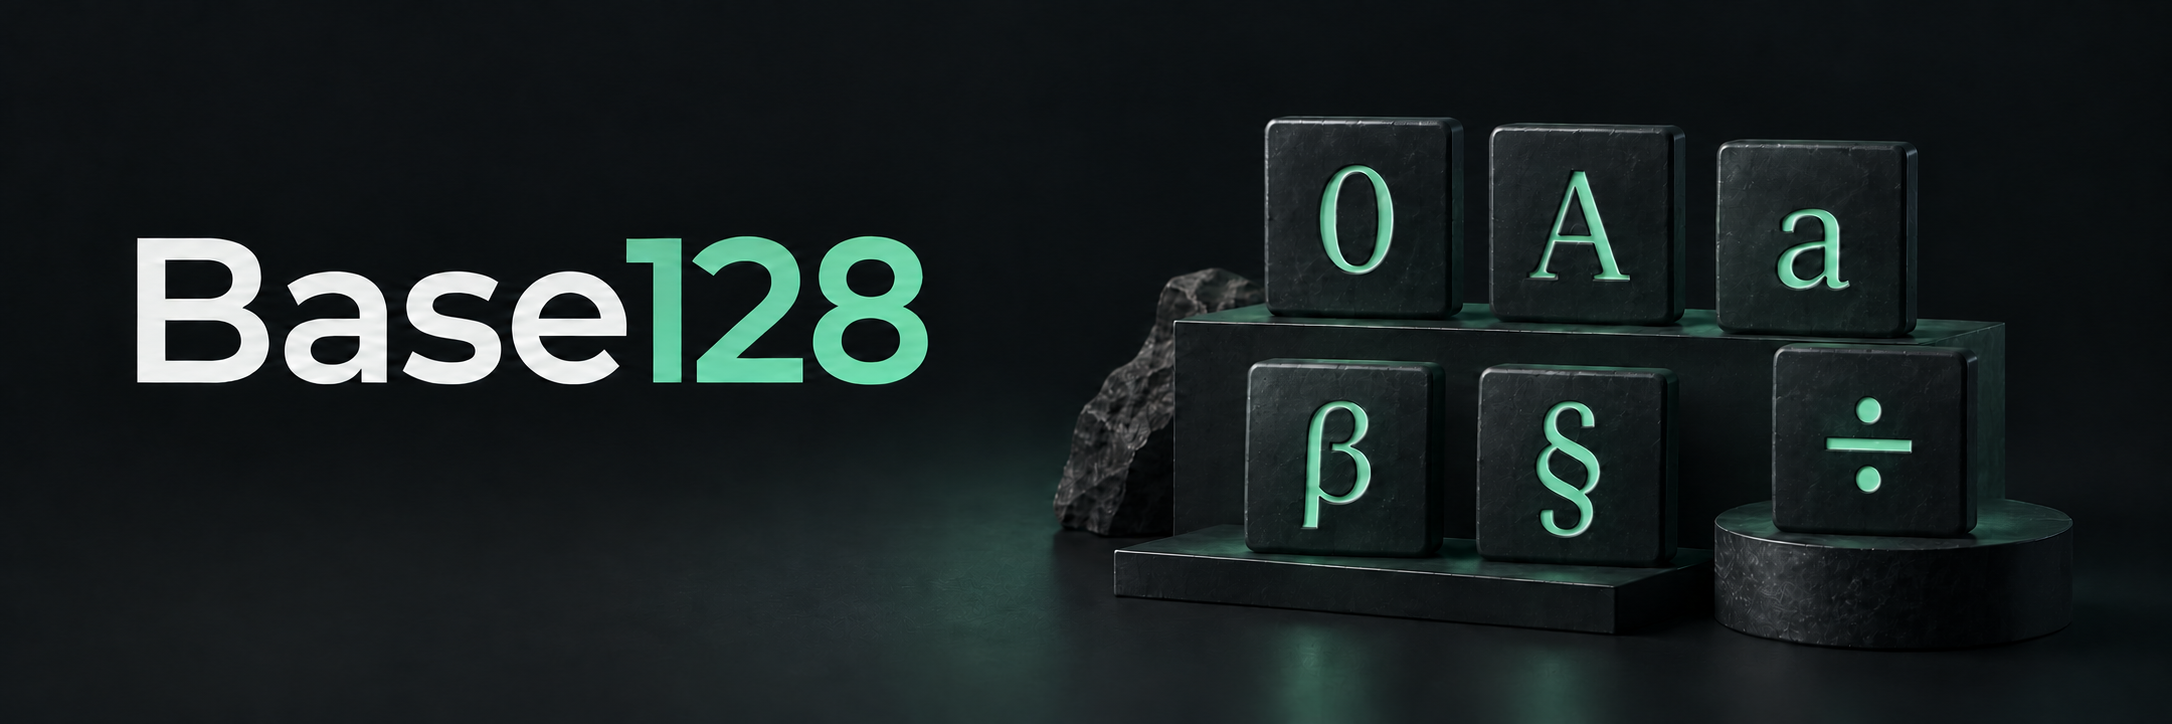
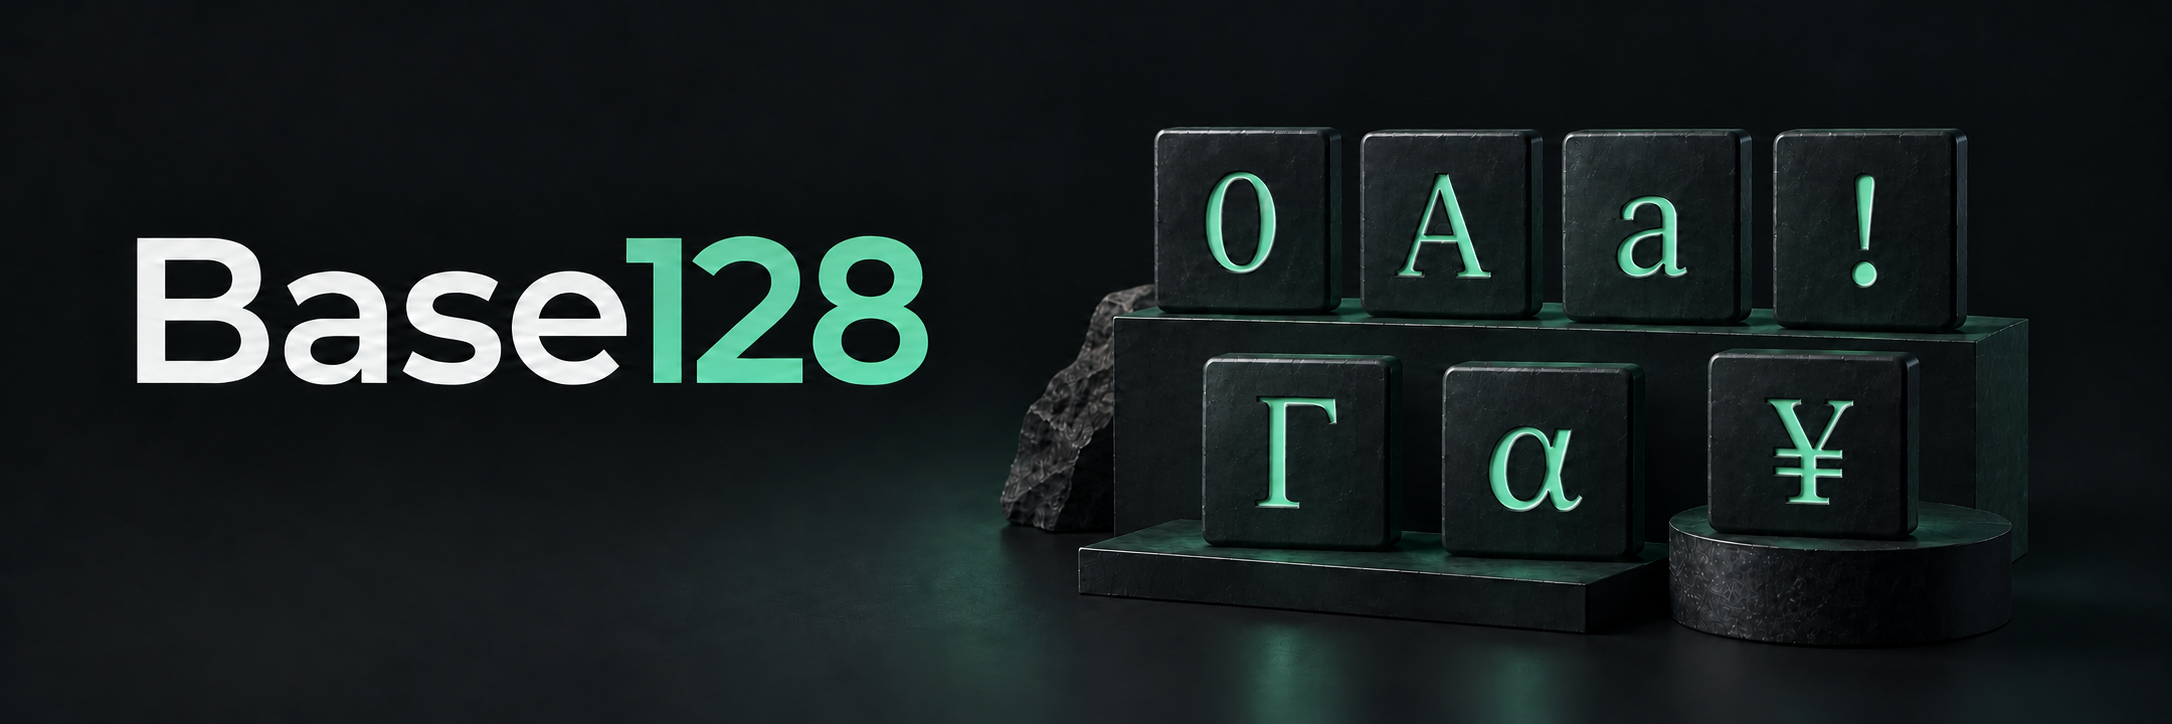
Show all seven alphabet blocks in README cover

Changed region(s): [[0.4627, 0.1519, 0.9563, 0.9116], [0.5552, 0.8812, 0.6169, 0.9724]]

diff --git a/README.md b/README.md
@@ -1,6 +1,6 @@
 # Base128
 
-![Base128 — Compact alphabet symbols](docs/images/base128-cover-compact.png)
+![Base128 — 0 A a ! Γ α ¥, one symbol from each Compact alphabet block](docs/images/base128-cover-compact.png)
 
 A small, dependency-free library for encoding bytes and nonnegative integers with a configurable **128-character Unicode alphabet**. Includes JavaScript/TypeScript, Python, a streaming CLI, and a browser playground.
 
